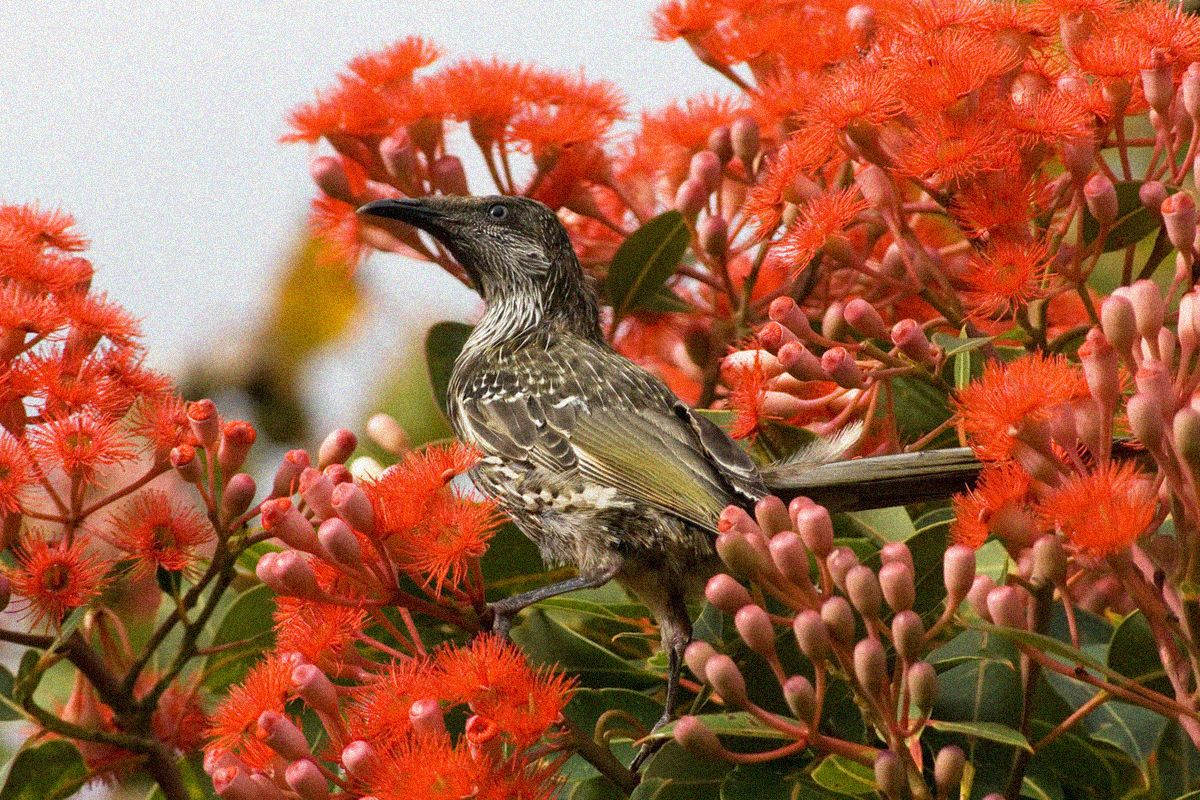
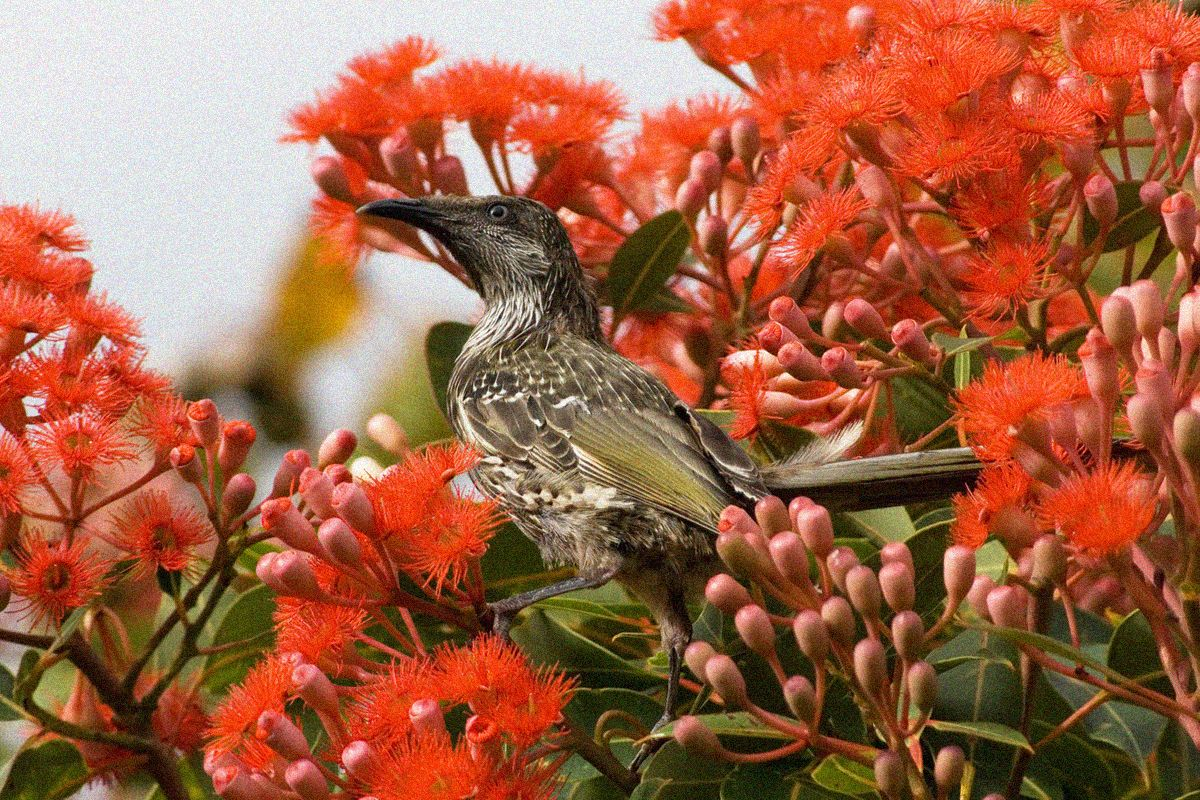
Updated examples with tritone and hue

Changed region(s): [[0.0, 0.0, 1.0, 1.0], [0.1542, 0.0, 0.185, 0.0312], [0.0, 0.0, 0.0308, 0.0312]]

diff --git a/README.md b/README.md
@@ -172,6 +172,7 @@ Click on the small images to see an enlarged example.
 | gaussian | <a href='https://raw.github.com/sksamuel/scrimage/master/examples/filters/bird_gaussian_large.jpeg'><img src='https://raw.github.com/sksamuel/scrimage/master/examples/filters/bird_gaussian_small.png'><a/> | <a href='https://raw.github.com/sksamuel/scrimage/master/examples/filters/colosseum_gaussian_large.jpeg'><img src='https://raw.github.com/sksamuel/scrimage/master/examples/filters/colosseum_gaussian_small.png'><a/> | <a href='https://raw.github.com/sksamuel/scrimage/master/examples/filters/lanzarote_gaussian_large.jpeg'><img src='https://raw.github.com/sksamuel/scrimage/master/examples/filters/lanzarote_gaussian_small.png'><a/> |
 | glow | <a href='https://raw.github.com/sksamuel/scrimage/master/examples/filters/bird_glow_large.jpeg'><img src='https://raw.github.com/sksamuel/scrimage/master/examples/filters/bird_glow_small.png'><a/> | <a href='https://raw.github.com/sksamuel/scrimage/master/examples/filters/colosseum_glow_large.jpeg'><img src='https://raw.github.com/sksamuel/scrimage/master/examples/filters/colosseum_glow_small.png'><a/> | <a href='https://raw.github.com/sksamuel/scrimage/master/examples/filters/lanzarote_glow_large.jpeg'><img src='https://raw.github.com/sksamuel/scrimage/master/examples/filters/lanzarote_glow_small.png'><a/> |
 | grayscale | <a href='https://raw.github.com/sksamuel/scrimage/master/examples/filters/bird_grayscale_large.jpeg'><img src='https://raw.github.com/sksamuel/scrimage/master/examples/filters/bird_grayscale_small.png'><a/> | <a href='https://raw.github.com/sksamuel/scrimage/master/examples/filters/colosseum_grayscale_large.jpeg'><img src='https://raw.github.com/sksamuel/scrimage/master/examples/filters/colosseum_grayscale_small.png'><a/> | <a href='https://raw.github.com/sksamuel/scrimage/master/examples/filters/lanzarote_grayscale_large.jpeg'><img src='https://raw.github.com/sksamuel/scrimage/master/examples/filters/lanzarote_grayscale_small.png'><a/> |
+| hsb | <a href='https://raw.github.com/sksamuel/scrimage/master/examples/filters/bird_hsb_large.jpeg'><img src='https://raw.github.com/sksamuel/scrimage/master/examples/filters/bird_hsb_small.png'><a/> | <a href='https://raw.github.com/sksamuel/scrimage/master/examples/filters/colosseum_hsb_large.jpeg'><img src='https://raw.github.com/sksamuel/scrimage/master/examples/filters/colosseum_hsb_small.png'><a/> | <a href='https://raw.github.com/sksamuel/scrimage/master/examples/filters/lanzarote_hsb_large.jpeg'><img src='https://raw.github.com/sksamuel/scrimage/master/examples/filters/lanzarote_hsb_small.png'><a/> |
 | invert | <a href='https://raw.github.com/sksamuel/scrimage/master/examples/filters/bird_invert_large.jpeg'><img src='https://raw.github.com/sksamuel/scrimage/master/examples/filters/bird_invert_small.png'><a/> | <a href='https://raw.github.com/sksamuel/scrimage/master/examples/filters/colosseum_invert_large.jpeg'><img src='https://raw.github.com/sksamuel/scrimage/master/examples/filters/colosseum_invert_small.png'><a/> | <a href='https://raw.github.com/sksamuel/scrimage/master/examples/filters/lanzarote_invert_large.jpeg'><img src='https://raw.github.com/sksamuel/scrimage/master/examples/filters/lanzarote_invert_small.png'><a/> |
 | lensblur | <a href='https://raw.github.com/sksamuel/scrimage/master/examples/filters/bird_lensblur_large.jpeg'><img src='https://raw.github.com/sksamuel/scrimage/master/examples/filters/bird_lensblur_small.png'><a/> | <a href='https://raw.github.com/sksamuel/scrimage/master/examples/filters/colosseum_lensblur_large.jpeg'><img src='https://raw.github.com/sksamuel/scrimage/master/examples/filters/colosseum_lensblur_small.png'><a/> | <a href='https://raw.github.com/sksamuel/scrimage/master/examples/filters/lanzarote_lensblur_large.jpeg'><img src='https://raw.github.com/sksamuel/scrimage/master/examples/filters/lanzarote_lensblur_small.png'><a/> |
 | lensflare | <a href='https://raw.github.com/sksamuel/scrimage/master/examples/filters/bird_lensflare_large.jpeg'><img src='https://raw.github.com/sksamuel/scrimage/master/examples/filters/bird_lensflare_small.png'><a/> | <a href='https://raw.github.com/sksamuel/scrimage/master/examples/filters/colosseum_lensflare_large.jpeg'><img src='https://raw.github.com/sksamuel/scrimage/master/examples/filters/colosseum_lensflare_small.png'><a/> | <a href='https://raw.github.com/sksamuel/scrimage/master/examples/filters/lanzarote_lensflare_large.jpeg'><img src='https://raw.github.com/sksamuel/scrimage/master/examples/filters/lanzarote_lensflare_small.png'><a/> |
@@ -198,6 +199,7 @@ Click on the small images to see an enlarged example.
 | swim | <a href='https://raw.github.com/sksamuel/scrimage/master/examples/filters/bird_swim_large.jpeg'><img src='https://raw.github.com/sksamuel/scrimage/master/examples/filters/bird_swim_small.png'><a/> | <a href='https://raw.github.com/sksamuel/scrimage/master/examples/filters/colosseum_swim_large.jpeg'><img src='https://raw.github.com/sksamuel/scrimage/master/examples/filters/colosseum_swim_small.png'><a/> | <a href='https://raw.github.com/sksamuel/scrimage/master/examples/filters/lanzarote_swim_large.jpeg'><img src='https://raw.github.com/sksamuel/scrimage/master/examples/filters/lanzarote_swim_small.png'><a/> |
 | television | <a href='https://raw.github.com/sksamuel/scrimage/master/examples/filters/bird_television_large.jpeg'><img src='https://raw.github.com/sksamuel/scrimage/master/examples/filters/bird_television_small.png'><a/> | <a href='https://raw.github.com/sksamuel/scrimage/master/examples/filters/colosseum_television_large.jpeg'><img src='https://raw.github.com/sksamuel/scrimage/master/examples/filters/colosseum_television_small.png'><a/> | <a href='https://raw.github.com/sksamuel/scrimage/master/examples/filters/lanzarote_television_large.jpeg'><img src='https://raw.github.com/sksamuel/scrimage/master/examples/filters/lanzarote_television_small.png'><a/> |
 | threshold | <a href='https://raw.github.com/sksamuel/scrimage/master/examples/filters/bird_threshold_large.jpeg'><img src='https://raw.github.com/sksamuel/scrimage/master/examples/filters/bird_threshold_small.png'><a/> | <a href='https://raw.github.com/sksamuel/scrimage/master/examples/filters/colosseum_threshold_large.jpeg'><img src='https://raw.github.com/sksamuel/scrimage/master/examples/filters/colosseum_threshold_small.png'><a/> | <a href='https://raw.github.com/sksamuel/scrimage/master/examples/filters/lanzarote_threshold_large.jpeg'><img src='https://raw.github.com/sksamuel/scrimage/master/examples/filters/lanzarote_threshold_small.png'><a/> |
+| tritone | <a href='https://raw.github.com/sksamuel/scrimage/master/examples/filters/bird_tritone_large.jpeg'><img src='https://raw.github.com/sksamuel/scrimage/master/examples/filters/bird_tritone_small.png'><a/> | <a href='https://raw.github.com/sksamuel/scrimage/master/examples/filters/colosseum_tritone_large.jpeg'><img src='https://raw.github.com/sksamuel/scrimage/master/examples/filters/colosseum_tritone_small.png'><a/> | <a href='https://raw.github.com/sksamuel/scrimage/master/examples/filters/lanzarote_tritone_large.jpeg'><img src='https://raw.github.com/sksamuel/scrimage/master/examples/filters/lanzarote_tritone_small.png'><a/> |
 | twirl | <a href='https://raw.github.com/sksamuel/scrimage/master/examples/filters/bird_twirl_large.jpeg'><img src='https://raw.github.com/sksamuel/scrimage/master/examples/filters/bird_twirl_small.png'><a/> | <a href='https://raw.github.com/sksamuel/scrimage/master/examples/filters/colosseum_twirl_large.jpeg'><img src='https://raw.github.com/sksamuel/scrimage/master/examples/filters/colosseum_twirl_small.png'><a/> | <a href='https://raw.github.com/sksamuel/scrimage/master/examples/filters/lanzarote_twirl_large.jpeg'><img src='https://raw.github.com/sksamuel/scrimage/master/examples/filters/lanzarote_twirl_small.png'><a/> |
 | unsharp | <a href='https://raw.github.com/sksamuel/scrimage/master/examples/filters/bird_unsharp_large.jpeg'><img src='https://raw.github.com/sksamuel/scrimage/master/examples/filters/bird_unsharp_small.png'><a/> | <a href='https://raw.github.com/sksamuel/scrimage/master/examples/filters/colosseum_unsharp_large.jpeg'><img src='https://raw.github.com/sksamuel/scrimage/master/examples/filters/colosseum_unsharp_small.png'><a/> | <a href='https://raw.github.com/sksamuel/scrimage/master/examples/filters/lanzarote_unsharp_large.jpeg'><img src='https://raw.github.com/sksamuel/scrimage/master/examples/filters/lanzarote_unsharp_small.png'><a/> |
 | vignette | <a href='https://raw.github.com/sksamuel/scrimage/master/examples/filters/bird_vignette_large.jpeg'><img src='https://raw.github.com/sksamuel/scrimage/master/examples/filters/bird_vignette_small.png'><a/> | <a href='https://raw.github.com/sksamuel/scrimage/master/examples/filters/colosseum_vignette_large.jpeg'><img src='https://raw.github.com/sksamuel/scrimage/master/examples/filters/colosseum_vignette_small.png'><a/> | <a href='https://raw.github.com/sksamuel/scrimage/master/examples/filters/lanzarote_vignette_large.jpeg'><img src='https://raw.github.com/sksamuel/scrimage/master/examples/filters/lanzarote_vignette_small.png'><a/> |

diff --git a/filters.md b/filters.md
@@ -17,6 +17,7 @@
 | gaussian | <a href='https://raw.github.com/sksamuel/scrimage/master/examples/filters/bird_gaussian_large.jpeg'><img src='https://raw.github.com/sksamuel/scrimage/master/examples/filters/bird_gaussian_small.png'><a/> | <a href='https://raw.github.com/sksamuel/scrimage/master/examples/filters/colosseum_gaussian_large.jpeg'><img src='https://raw.github.com/sksamuel/scrimage/master/examples/filters/colosseum_gaussian_small.png'><a/> | <a href='https://raw.github.com/sksamuel/scrimage/master/examples/filters/lanzarote_gaussian_large.jpeg'><img src='https://raw.github.com/sksamuel/scrimage/master/examples/filters/lanzarote_gaussian_small.png'><a/> | 
 | glow | <a href='https://raw.github.com/sksamuel/scrimage/master/examples/filters/bird_glow_large.jpeg'><img src='https://raw.github.com/sksamuel/scrimage/master/examples/filters/bird_glow_small.png'><a/> | <a href='https://raw.github.com/sksamuel/scrimage/master/examples/filters/colosseum_glow_large.jpeg'><img src='https://raw.github.com/sksamuel/scrimage/master/examples/filters/colosseum_glow_small.png'><a/> | <a href='https://raw.github.com/sksamuel/scrimage/master/examples/filters/lanzarote_glow_large.jpeg'><img src='https://raw.github.com/sksamuel/scrimage/master/examples/filters/lanzarote_glow_small.png'><a/> | 
 | grayscale | <a href='https://raw.github.com/sksamuel/scrimage/master/examples/filters/bird_grayscale_large.jpeg'><img src='https://raw.github.com/sksamuel/scrimage/master/examples/filters/bird_grayscale_small.png'><a/> | <a href='https://raw.github.com/sksamuel/scrimage/master/examples/filters/colosseum_grayscale_large.jpeg'><img src='https://raw.github.com/sksamuel/scrimage/master/examples/filters/colosseum_grayscale_small.png'><a/> | <a href='https://raw.github.com/sksamuel/scrimage/master/examples/filters/lanzarote_grayscale_large.jpeg'><img src='https://raw.github.com/sksamuel/scrimage/master/examples/filters/lanzarote_grayscale_small.png'><a/> | 
+| hsb | <a href='https://raw.github.com/sksamuel/scrimage/master/examples/filters/bird_hsb_large.jpeg'><img src='https://raw.github.com/sksamuel/scrimage/master/examples/filters/bird_hsb_small.png'><a/> | <a href='https://raw.github.com/sksamuel/scrimage/master/examples/filters/colosseum_hsb_large.jpeg'><img src='https://raw.github.com/sksamuel/scrimage/master/examples/filters/colosseum_hsb_small.png'><a/> | <a href='https://raw.github.com/sksamuel/scrimage/master/examples/filters/lanzarote_hsb_large.jpeg'><img src='https://raw.github.com/sksamuel/scrimage/master/examples/filters/lanzarote_hsb_small.png'><a/> | 
 | invert | <a href='https://raw.github.com/sksamuel/scrimage/master/examples/filters/bird_invert_large.jpeg'><img src='https://raw.github.com/sksamuel/scrimage/master/examples/filters/bird_invert_small.png'><a/> | <a href='https://raw.github.com/sksamuel/scrimage/master/examples/filters/colosseum_invert_large.jpeg'><img src='https://raw.github.com/sksamuel/scrimage/master/examples/filters/colosseum_invert_small.png'><a/> | <a href='https://raw.github.com/sksamuel/scrimage/master/examples/filters/lanzarote_invert_large.jpeg'><img src='https://raw.github.com/sksamuel/scrimage/master/examples/filters/lanzarote_invert_small.png'><a/> | 
 | lensblur | <a href='https://raw.github.com/sksamuel/scrimage/master/examples/filters/bird_lensblur_large.jpeg'><img src='https://raw.github.com/sksamuel/scrimage/master/examples/filters/bird_lensblur_small.png'><a/> | <a href='https://raw.github.com/sksamuel/scrimage/master/examples/filters/colosseum_lensblur_large.jpeg'><img src='https://raw.github.com/sksamuel/scrimage/master/examples/filters/colosseum_lensblur_small.png'><a/> | <a href='https://raw.github.com/sksamuel/scrimage/master/examples/filters/lanzarote_lensblur_large.jpeg'><img src='https://raw.github.com/sksamuel/scrimage/master/examples/filters/lanzarote_lensblur_small.png'><a/> | 
 | lensflare | <a href='https://raw.github.com/sksamuel/scrimage/master/examples/filters/bird_lensflare_large.jpeg'><img src='https://raw.github.com/sksamuel/scrimage/master/examples/filters/bird_lensflare_small.png'><a/> | <a href='https://raw.github.com/sksamuel/scrimage/master/examples/filters/colosseum_lensflare_large.jpeg'><img src='https://raw.github.com/sksamuel/scrimage/master/examples/filters/colosseum_lensflare_small.png'><a/> | <a href='https://raw.github.com/sksamuel/scrimage/master/examples/filters/lanzarote_lensflare_large.jpeg'><img src='https://raw.github.com/sksamuel/scrimage/master/examples/filters/lanzarote_lensflare_small.png'><a/> | 
@@ -43,6 +44,7 @@
 | swim | <a href='https://raw.github.com/sksamuel/scrimage/master/examples/filters/bird_swim_large.jpeg'><img src='https://raw.github.com/sksamuel/scrimage/master/examples/filters/bird_swim_small.png'><a/> | <a href='https://raw.github.com/sksamuel/scrimage/master/examples/filters/colosseum_swim_large.jpeg'><img src='https://raw.github.com/sksamuel/scrimage/master/examples/filters/colosseum_swim_small.png'><a/> | <a href='https://raw.github.com/sksamuel/scrimage/master/examples/filters/lanzarote_swim_large.jpeg'><img src='https://raw.github.com/sksamuel/scrimage/master/examples/filters/lanzarote_swim_small.png'><a/> | 
 | television | <a href='https://raw.github.com/sksamuel/scrimage/master/examples/filters/bird_television_large.jpeg'><img src='https://raw.github.com/sksamuel/scrimage/master/examples/filters/bird_television_small.png'><a/> | <a href='https://raw.github.com/sksamuel/scrimage/master/examples/filters/colosseum_television_large.jpeg'><img src='https://raw.github.com/sksamuel/scrimage/master/examples/filters/colosseum_television_small.png'><a/> | <a href='https://raw.github.com/sksamuel/scrimage/master/examples/filters/lanzarote_television_large.jpeg'><img src='https://raw.github.com/sksamuel/scrimage/master/examples/filters/lanzarote_television_small.png'><a/> | 
 | threshold | <a href='https://raw.github.com/sksamuel/scrimage/master/examples/filters/bird_threshold_large.jpeg'><img src='https://raw.github.com/sksamuel/scrimage/master/examples/filters/bird_threshold_small.png'><a/> | <a href='https://raw.github.com/sksamuel/scrimage/master/examples/filters/colosseum_threshold_large.jpeg'><img src='https://raw.github.com/sksamuel/scrimage/master/examples/filters/colosseum_threshold_small.png'><a/> | <a href='https://raw.github.com/sksamuel/scrimage/master/examples/filters/lanzarote_threshold_large.jpeg'><img src='https://raw.github.com/sksamuel/scrimage/master/examples/filters/lanzarote_threshold_small.png'><a/> | 
+| tritone | <a href='https://raw.github.com/sksamuel/scrimage/master/examples/filters/bird_tritone_large.jpeg'><img src='https://raw.github.com/sksamuel/scrimage/master/examples/filters/bird_tritone_small.png'><a/> | <a href='https://raw.github.com/sksamuel/scrimage/master/examples/filters/colosseum_tritone_large.jpeg'><img src='https://raw.github.com/sksamuel/scrimage/master/examples/filters/colosseum_tritone_small.png'><a/> | <a href='https://raw.github.com/sksamuel/scrimage/master/examples/filters/lanzarote_tritone_large.jpeg'><img src='https://raw.github.com/sksamuel/scrimage/master/examples/filters/lanzarote_tritone_small.png'><a/> | 
 | twirl | <a href='https://raw.github.com/sksamuel/scrimage/master/examples/filters/bird_twirl_large.jpeg'><img src='https://raw.github.com/sksamuel/scrimage/master/examples/filters/bird_twirl_small.png'><a/> | <a href='https://raw.github.com/sksamuel/scrimage/master/examples/filters/colosseum_twirl_large.jpeg'><img src='https://raw.github.com/sksamuel/scrimage/master/examples/filters/colosseum_twirl_small.png'><a/> | <a href='https://raw.github.com/sksamuel/scrimage/master/examples/filters/lanzarote_twirl_large.jpeg'><img src='https://raw.github.com/sksamuel/scrimage/master/examples/filters/lanzarote_twirl_small.png'><a/> | 
 | unsharp | <a href='https://raw.github.com/sksamuel/scrimage/master/examples/filters/bird_unsharp_large.jpeg'><img src='https://raw.github.com/sksamuel/scrimage/master/examples/filters/bird_unsharp_small.png'><a/> | <a href='https://raw.github.com/sksamuel/scrimage/master/examples/filters/colosseum_unsharp_large.jpeg'><img src='https://raw.github.com/sksamuel/scrimage/master/examples/filters/colosseum_unsharp_small.png'><a/> | <a href='https://raw.github.com/sksamuel/scrimage/master/examples/filters/lanzarote_unsharp_large.jpeg'><img src='https://raw.github.com/sksamuel/scrimage/master/examples/filters/lanzarote_unsharp_small.png'><a/> | 
 | vignette | <a href='https://raw.github.com/sksamuel/scrimage/master/examples/filters/bird_vignette_large.jpeg'><img src='https://raw.github.com/sksamuel/scrimage/master/examples/filters/bird_vignette_small.png'><a/> | <a href='https://raw.github.com/sksamuel/scrimage/master/examples/filters/colosseum_vignette_large.jpeg'><img src='https://raw.github.com/sksamuel/scrimage/master/examples/filters/colosseum_vignette_small.png'><a/> | <a href='https://raw.github.com/sksamuel/scrimage/master/examples/filters/lanzarote_vignette_large.jpeg'><img src='https://raw.github.com/sksamuel/scrimage/master/examples/filters/lanzarote_vignette_small.png'><a/> | 
